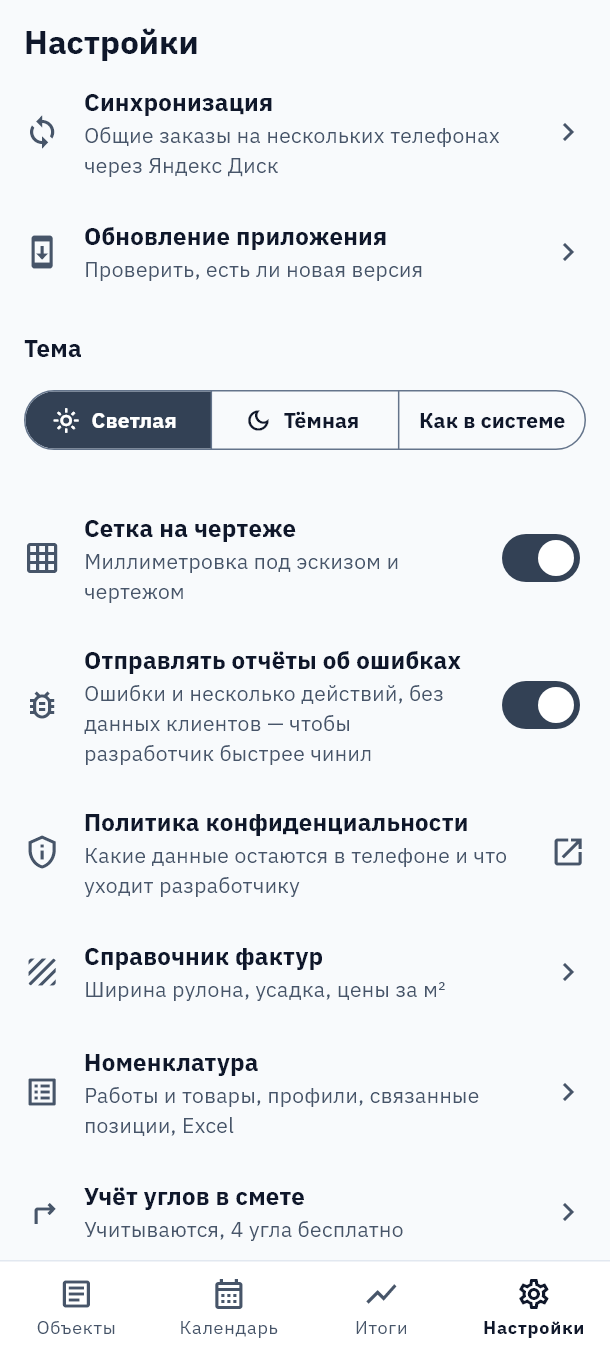
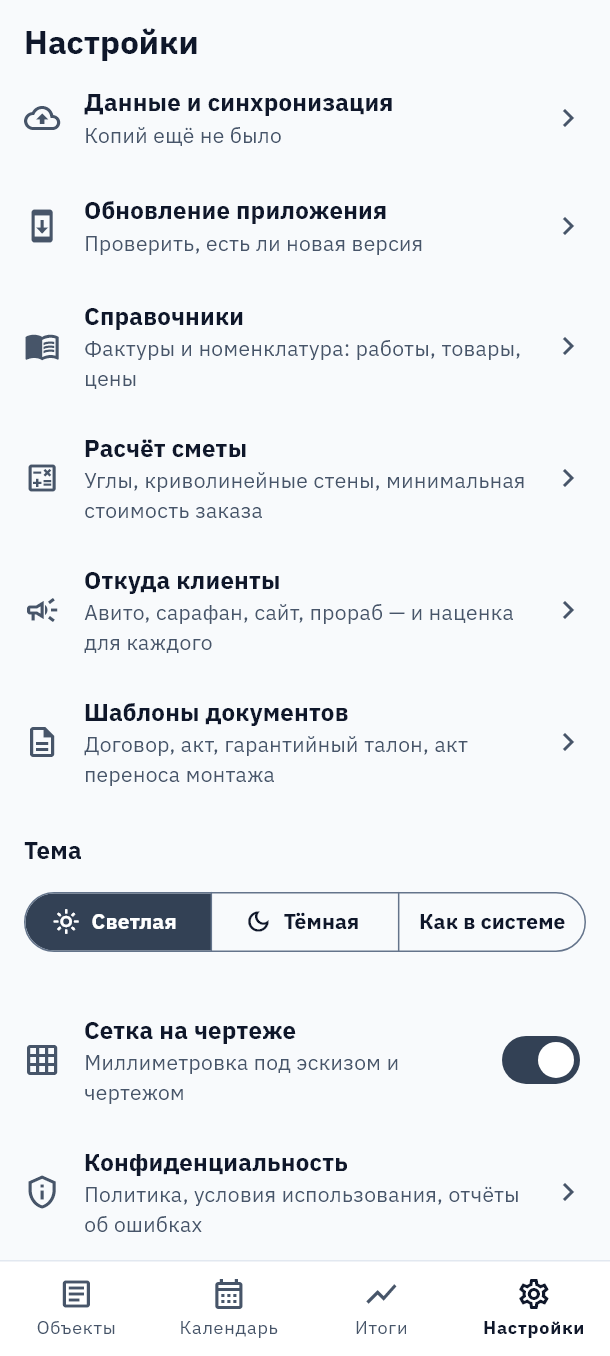
0.1.19: настройки сгруппированы, раздел о данных в договоре

diff --git a/CHANGELOG.md b/CHANGELOG.md
@@ -1,5 +1,16 @@
 # Что нового
 
+## 0.1.19 — 08.11.2026
+
+**Настройки стали короче**
+- «Резервная копия» и «Синхронизация» — в одном пункте «Данные и синхронизация»; в подписи видно, когда была последняя копия.
+- «Справочник фактур» и «Номенклатура» — в пункте «Справочники».
+- Политика конфиденциальности, условия использования и переключатель отчётов об ошибках — в пункте «Конфиденциальность», в самом низу.
+
+**Договор и персональные данные**
+- В стандартном договоре новый раздел 7 «Персональные данные»: подписывая договор, заказчик соглашается на обработку своих данных для договора и гарантии, в том числе на передачу тем, кто помогает с монтажом. Если вы меняли текст договора в «Шаблонах документов», раздел сам не появится — добавьте его или сбросьте шаблон к стандартному.
+- Опубликованы условия использования (оферта): лицензия, цены, оплата, ответственность. Открыть — Настройки → «Конфиденциальность» или экран «Аккаунт».
+
 ## 0.1.18 — 05.11.2026
 
 **Персональные данные**

diff --git a/guide/sync.md b/guide/sync.md
@@ -26,9 +26,9 @@
 
 ### 1. Откройте «Синхронизацию»
 
-На нижней панели нажмите **«Настройки»**, затем пункт **«Синхронизация»**.
+На нижней панели нажмите **«Настройки»**, затем **«Данные и синхронизация»** → **«Синхронизация»**.
 
-<img src="sync/01-settings.png" alt="Экран «Настройки», первый пункт — «Синхронизация»" width="260">
+<img src="sync/01-settings.png" alt="Экран «Настройки», пункт «Данные и синхронизация»" width="260">
 
 ### 2. Перейдите к входу
 
@@ -109,7 +109,7 @@
 
 ### 2. Войдите в приложении своим аккаунтом
 
-Как в части 1: **«Настройки»** → **«Синхронизация»** → **«Открыть аккаунт»** → **«Войти через Яндекс»**.
+Как в части 1: **«Настройки»** → **«Данные и синхронизация»** → **«Синхронизация»** → **«Открыть аккаунт»** → **«Войти через Яндекс»**.
 Входите тем аккаунтом, на почту которого пришло приглашение.
 
 ### 3. Вернитесь в «Синхронизацию»
